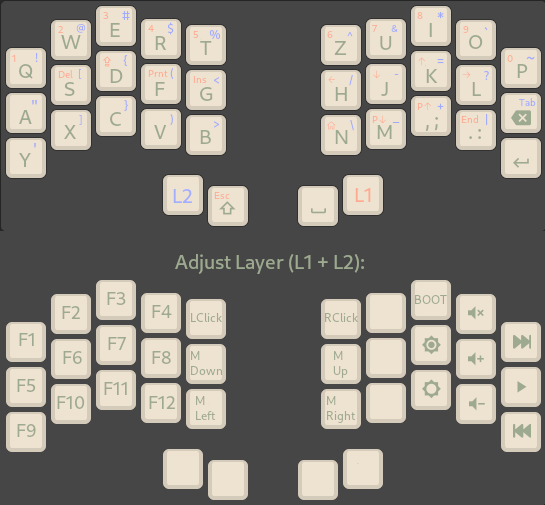
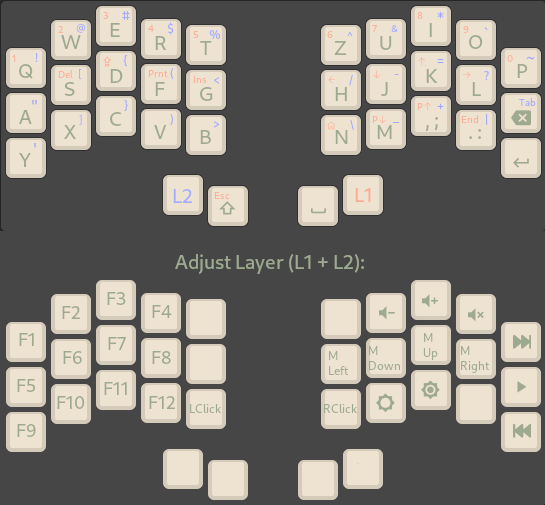
fix(keymap): Change layout of mouse keys on adjust layer

diff --git a/keyboards/ferris/keymaps/BelimFaux/keymap.c b/keyboards/ferris/keymaps/BelimFaux/keymap.c
@@ -57,7 +57,7 @@ const uint16_t PROGMEM keymaps[][MATRIX_ROWS][MATRIX_COLS] = {
          KC_A,     LA(KC_S),      LG(KC_D),     LC(KC_F),     KC_G,          KC_H,     RC(KC_J),      RG(KC_K),      RA(KC_L),    KC_BSPC,
     //├──────────┼─────────────┼─────────────┼─────────────┼──────────┤   ├──────────┼─────────────┼─────────────┼─────────────┼──────────┤
     //│  Y       │  X          │  C          │  V          │  B       │   │  N       │  M          │ , ;         │ . :         │ ENTER    │
-         KC_Y,      KC_X,         KC_C,         KC_V,        KC_B,          KC_N,      KC_M,         KC_COMM,      KC_DOT,       KC_ENT,
+         KC_Y,      KC_X,         KC_C,         KC_V,         KC_B,          KC_N,      KC_M,         KC_COMM,      KC_DOT,       KC_ENT,
     //╰──────────┴─────────────┴─────────────┼─────────────┼──────────┤   ├──────────┼─────────────┼─────────────┴─────────────┴──────────╯
     //                                       │  Layer 2    │  LShift  │   │  Space   │   Layer 1   │
                                                 TL_UPPR,     KC_LSFT,        KC_SPC,     TL_LOWR
@@ -98,14 +98,14 @@ const uint16_t PROGMEM keymaps[][MATRIX_ROWS][MATRIX_COLS] = {
 
     [_ADJUST] = LAYOUT_split_3x5_2(
     //╭──────────┬─────────────┬─────────────┬─────────────┬──────────╮   ╭──────────┬─────────────┬─────────────┬─────────────┬──────────╮
-    //│  F1      │  F2         │  F3         │  F4         │ LClick   │   │  RClick  │             │ BootMode    │ AudioMute   │ NextSong │
-        KC_F1,     KC_F2,        KC_F3,        KC_F4,        MS_BTN1,       MS_BTN2,    KC_TRNS,      QK_BOOT,      KC_MUTE,      KC_MNXT,
+    //│  F1      │  F2         │  F3         │  F4         │          │   │          │  Vol-       │  Vol+       │ AudioMute   │ NextSong │
+        KC_F1,     KC_F2,        KC_F3,        KC_F4,        KC_TRNS,       KC_TRNS,    KC_VOLD,      KC_VOLU,      KC_MUTE,     KC_MNXT,
     //├──────────┼─────────────┼─────────────┼─────────────┼──────────┤   ├──────────┼─────────────┼─────────────┼─────────────┼──────────┤
-    //│  F5      │ LAlt, F6    │  LGui, F7   │  LCtl, F4   │ MouseU   │   │  MouseD  │ RCtl        │ LGui,Brgt+  │ RAlt,Vol+   │Play/Pause│
-        KC_F5,     LA(KC_F6),    LG(KC_F7),    LC(KC_F8),    MS_UP,         MS_DOWN,   RC(KC_TRNS),  RG(KC_BRIU),  RA(KC_VOLU),  KC_MPLY,
+    //│  F5      │ LAlt, F6    │  LGui, F7   │  LCtl, F4   │          │   │  MouseL  │ RCtl,MouseD │ LGui,MouseU │ RAlt,MouseR │Play/Pause│
+        KC_F5,     LA(KC_F6),    LG(KC_F7),    LC(KC_F8),    KC_TRNS,       MS_LEFT,   RC(MS_DOWN),  RG(MS_UP),    RA(MS_RGHT),  KC_MPLY,
     //├──────────┼─────────────┼─────────────┼─────────────┼──────────┤   ├──────────┼─────────────┼─────────────┼─────────────┼──────────┤
-    //│  F9      │  F10        │  F11        │  F12        │ MouseL   │   │  MouseR  │             │  Brgt-      │  Vol-       │ PrevSong │
-        KC_F9,     KC_F10,       KC_F11,       KC_F12,       MS_LEFT,       MS_RGHT,   KC_TRNS,      KC_BRID,      KC_VOLD,     KC_MPRV,
+    //│  F9      │  F10        │  F11        │  F12        │ LClick   │   │  RClick  │  Brgt-      │  Brgt+      │             │ PrevSong │
+        KC_F9,     KC_F10,       KC_F11,       KC_F12,       MS_BTN1,        MS_BTN2,   KC_BRID,      KC_BRIU,      KC_TRNS,     KC_MPRV,
     //╰──────────┴─────────────┴─────────────┼─────────────┼──────────┤   ├──────────┼─────────────┼─────────────┴─────────────┴──────────╯
     //                                       │             │          │   │          │             │
                                                KC_TRNS,      KC_TRNS,       KC_TRNS,    KC_TRNS

diff --git a/keyboards/ferris/keymaps/BelimFaux/config.h b/keyboards/ferris/keymaps/BelimFaux/config.h
@@ -34,5 +34,4 @@ along with this program.  If not, see <http://www.gnu.org/licenses/>.
 
 // Pick good defaults for enabling homerow modifiers
 #define TAPPING_TERM 200
-#define PERMISSIVE_HOLD
 #define QUICK_TAP_TERM 120 // tapping fast and then holding will sent default key and not mod key
